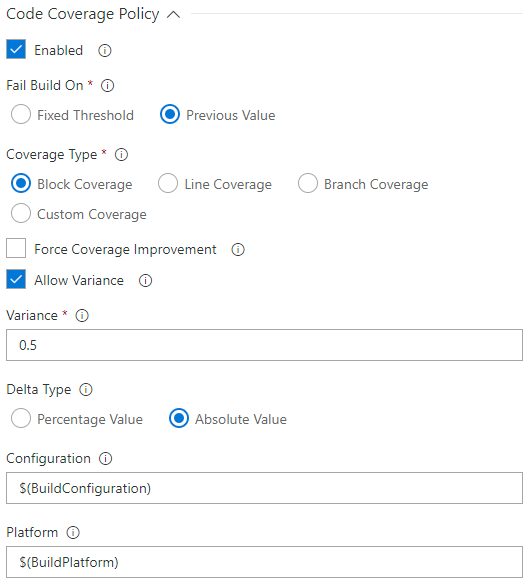
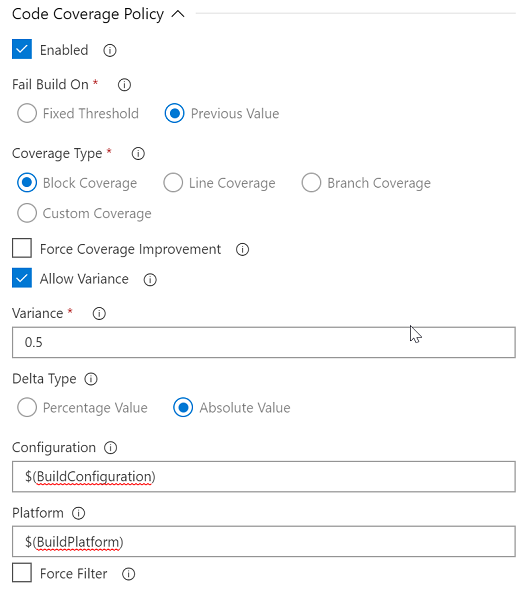
Update docs to v5.2.0

diff --git a/BuildQualityChecks/en-US/overview.md b/BuildQualityChecks/en-US/overview.md
@@ -1,4 +1,4 @@
-[Known Issues](#known-issues) | [Support](#support) | [Policies](#policies) | [Task Parameters](#task-parameters) | [Common Usage Scenarios](#common-usage-scenarios) | [Policy Results](#policy-results) | [FAQ](#faq)
+[Known Issues](#known-issues) | [Support](#support) | [Policies](#policies) | [Task Parameters](#task-parameters) | [Task Variables](#task-variables) | [Common Usage Scenarios](#common-usage-scenarios) | [Policy Results](#policy-results) | [FAQ](#faq)
 
 # Build Quality Checks
 The *Build Quality Checks* task allows you to add quality gates to your build process.
@@ -87,8 +87,17 @@ is associated with a specific instance of the task. This will help distinguishin
 title is added to the subsection header in the summary in the format \<Build Job Name\> - \<Run Title\>.
 
 #### Advanced
-- <a name="noCertCheck">**Disable NodeJS certificate check:**</a> Check this option if your Team Foundation Server is using a self-signed or corporate SSL certificate and your
-  build agent version is lower than 2.117.0. The option disables the certificate chain validation of NodeJS. Please read [here](https://github.com/MicrosoftPremier/VstsExtensions/blob/master/BuildQualityChecks/en-US/NodeJSAndCertificates.md) for details.
+- <a name="noCertCheck">**Disable NodeJS certificate check:**</a> Check this option if your Team Foundation Server is using a self-signed or corporate SSL certificate
+  and your build agent version is lower than 2.117.0. The option disables the certificate chain validation of NodeJS. Please read [here](https://github.com/MicrosoftPremier/VstsExtensions/blob/master/BuildQualityChecks/en-US/NodeJSAndCertificates.md) for details.
+
+### Task Variables
+In addition to parameters visible in the task UI there are a few variables you can set to affect the tasks behavior:
+
+- **BQC.ForceNewBaseline:** You can set this variable (usually when queueing a new build) to _true_ to force the policies to ignore an existing baseline build. This
+  essentially creates a new baseline for future builds. This is especially helpful if there was a larger refactoring or redesign that resulted in a big change in code coverage and you need to establish a new base value. The default value is _false_.
+
+- **BQC.LogRawData:** You can set this variable to _true_ to enable logging of raw JSON data read by the task. In most cases you should not use this option as it does
+  increase the log size of the task and may show sensitive data in the log file. However, this data is very helpful in support scenarios. Note that this variable only takes effect if the variable _System.Debug_ is also set to _true_. The default value is _false_.
 
 ### Common Usage Scenarios
 

diff --git a/BuildQualityChecks/en-US/CodeCoveragePolicy.md b/BuildQualityChecks/en-US/CodeCoveragePolicy.md
@@ -90,3 +90,9 @@ The *Code Coverage Policy* allows breaking the build if code coverage falls belo
 
   **Note:** If you configure this parameter, make sure its value matches the value of the _Build platform_ parameter in the _Visual Studio Test_
   task's _Reporting options_ section! Otherwise the policy will not pick up the generated code coverage values.
+
+- <a name="explicitFilter">**Force Filter:**</a> Check this option to force the policy to only evaluate coverage data associated with the configured _Configuration_
+  and _Platform_. If this option is not checked, the policy aggregates coverage data from all test runs unless both _Configuration_ and _Platform_ are specified. This
+  is usually a good default value unless you have multiple code coverage tools like the _Visual Studio Test_ task and _Cobertura_. In such a scenario you have to
+  check this option and leave both _Platform_ and _Configuration_ empty when you only want to evaluate _Cobertura_ coverage data. Otherwise, the policy would
+  evaluate the aggregated values from _Visual Studio Test_ and _Cobertura_ resulting in too high coverage values. 

diff --git a/BuildQualityChecks/en-US/changeNotes.md b/BuildQualityChecks/en-US/changeNotes.md
@@ -2,6 +2,10 @@
 
 # Build Quality Checks - Change Notes
 
+#### 5.2.0
+- Add support for only evaluating code coverage data that is not associated with a platform and configuration as created by 3rd party tools like Cobertura.
+- Add variable BQC.ForceNewBaseline to force a new baseline build.
+
 #### 5.1.0
 - Group warnings by build task in the task output and summary section (thanks to Mike W. for the suggestion).
 - Add support for StyleCop log analysis.
